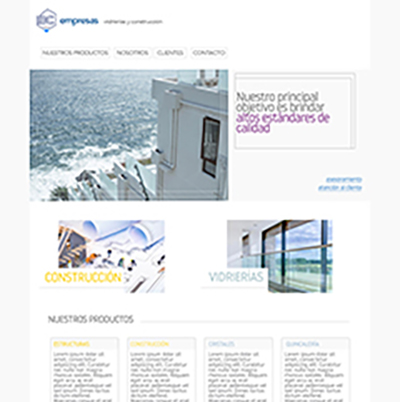
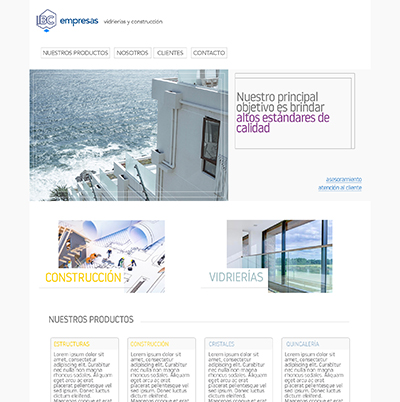
Add files via upload

diff --git a/styles.css b/styles.css
@@ -87,9 +87,10 @@ padding: 1em;
   
   }
   .proyectos{
-    background-color: #efefef;
     display: grid;
     grid-template-columns: repeat(3,1fr);
+    background: rgb(197,200,206);
+background: linear-gradient(180deg, rgba(197,200,206,0) 0%, rgba(197,200,206,0.43043154761904767) 47%, rgba(197,200,206,0.702140231092437) 97%, rgba(197,200,206,1) 100%);
   }
 
   .proyimg{
